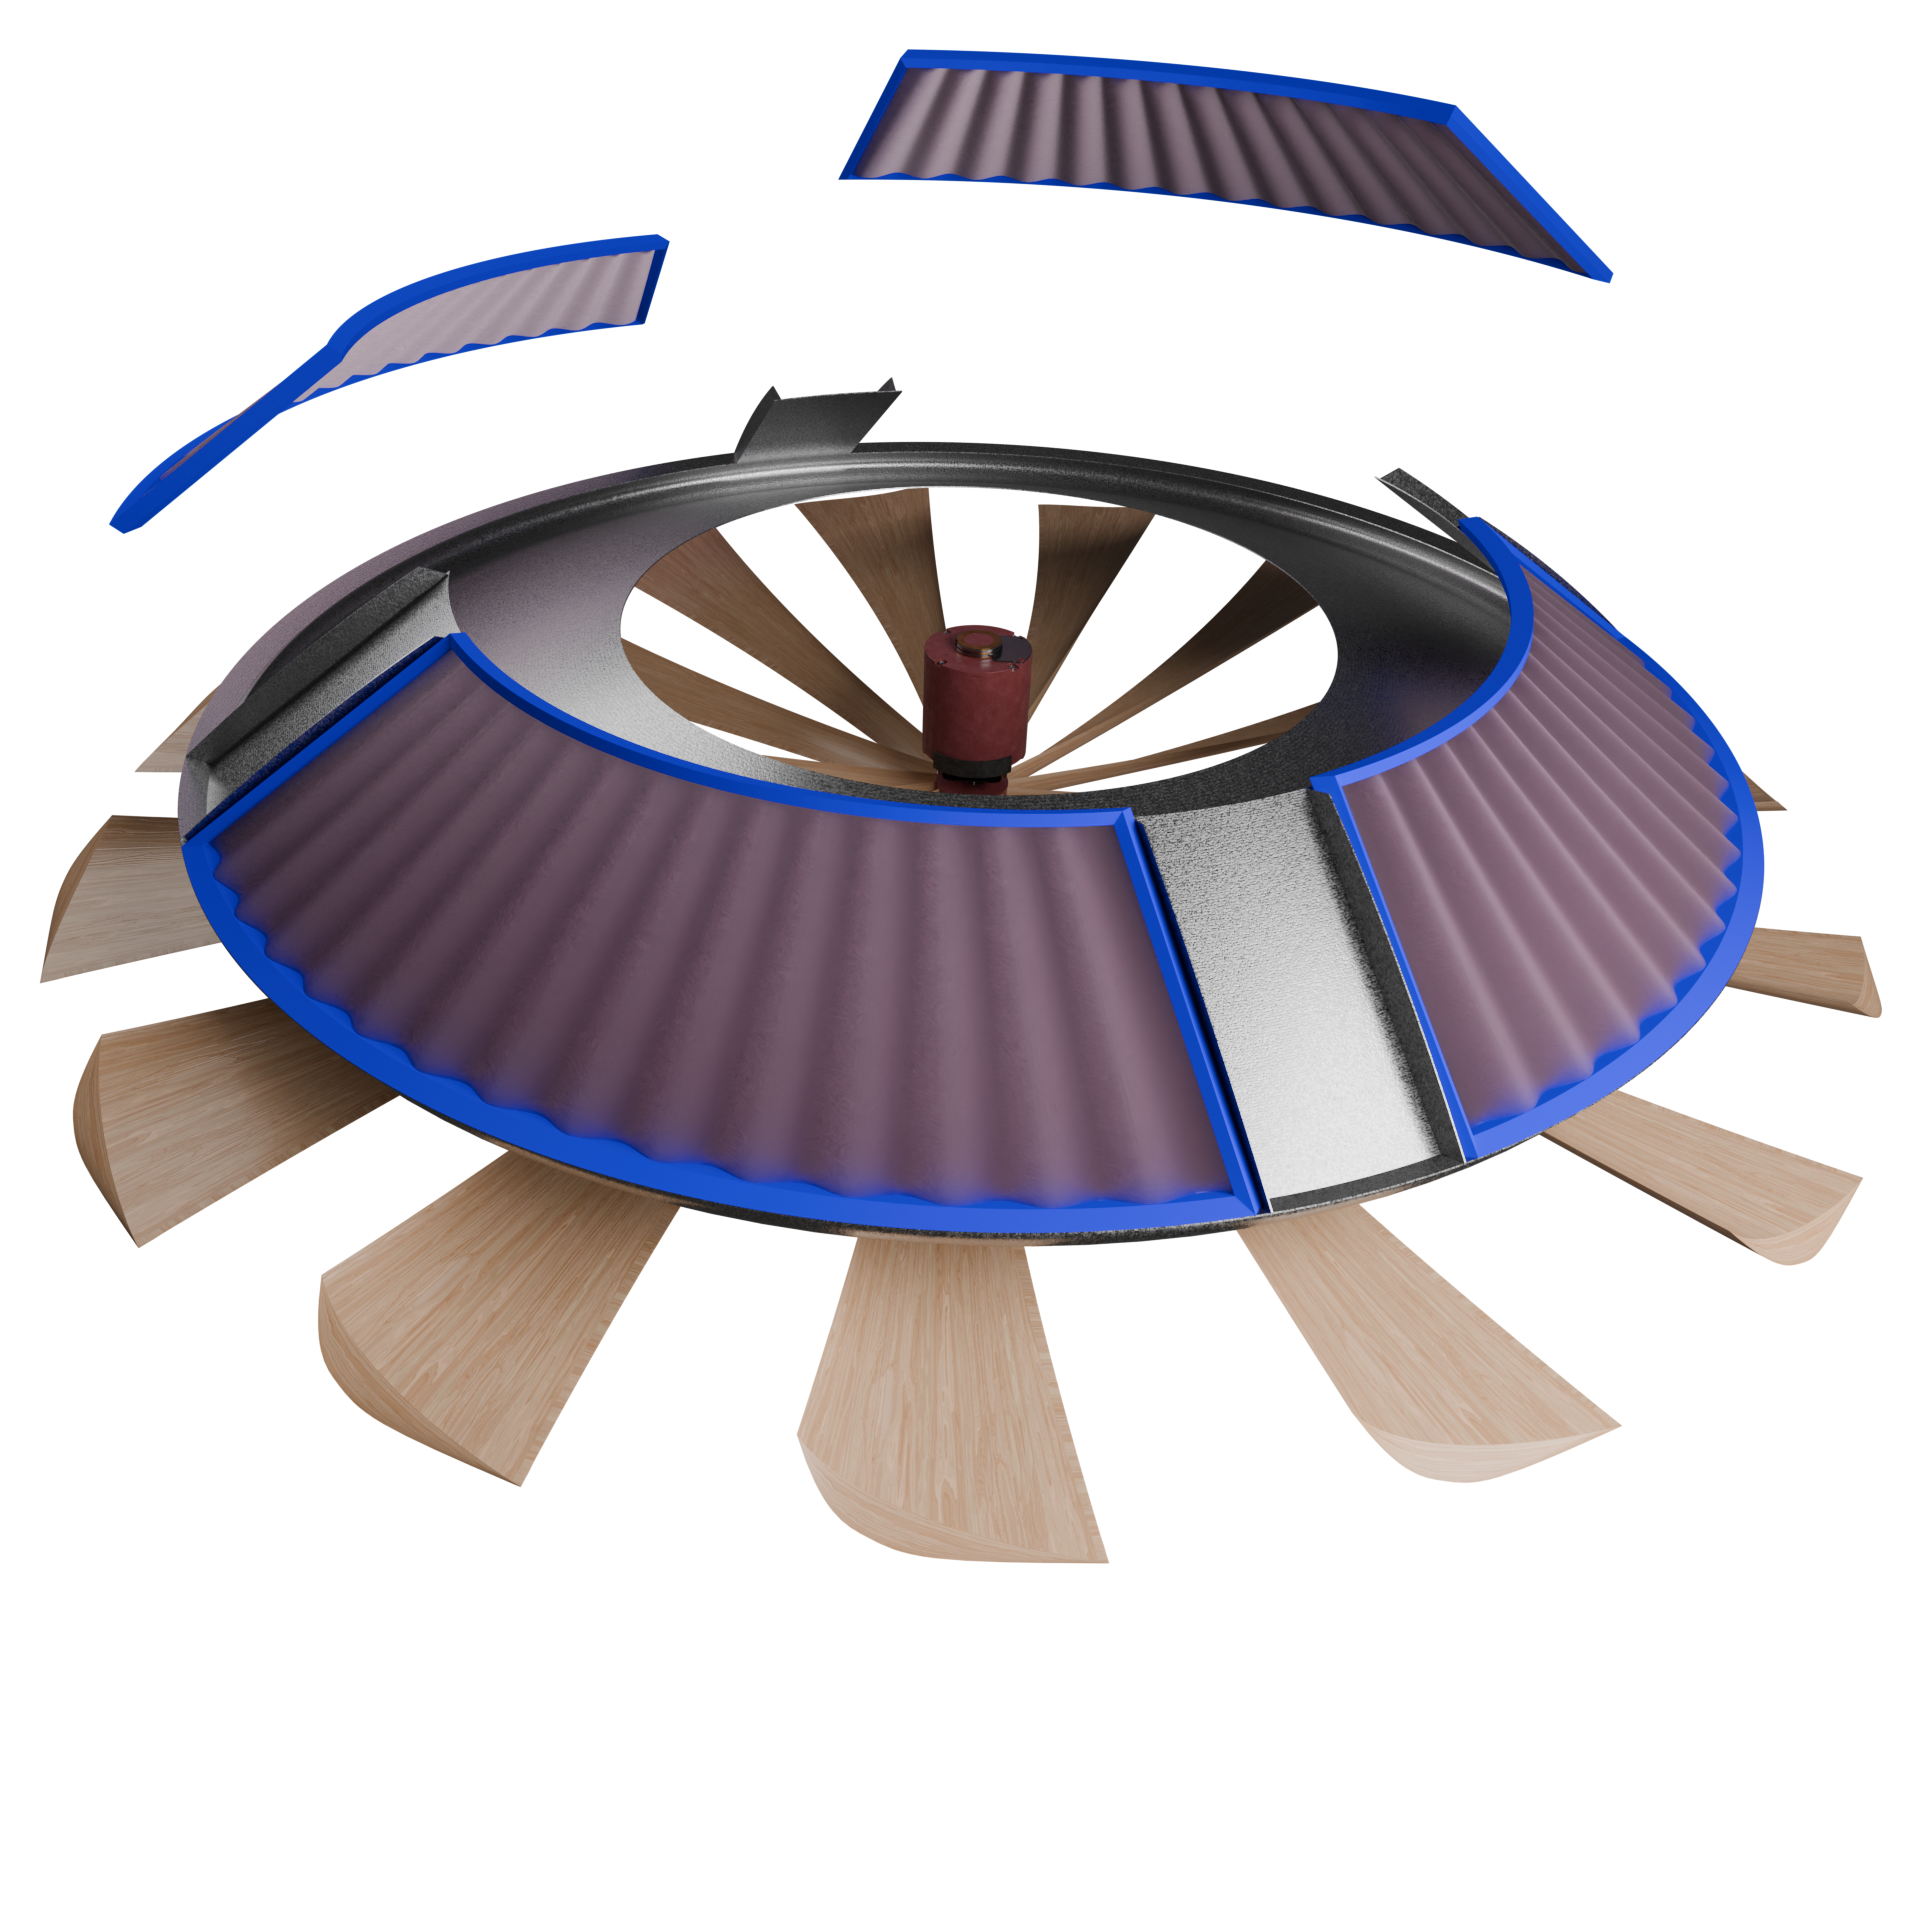
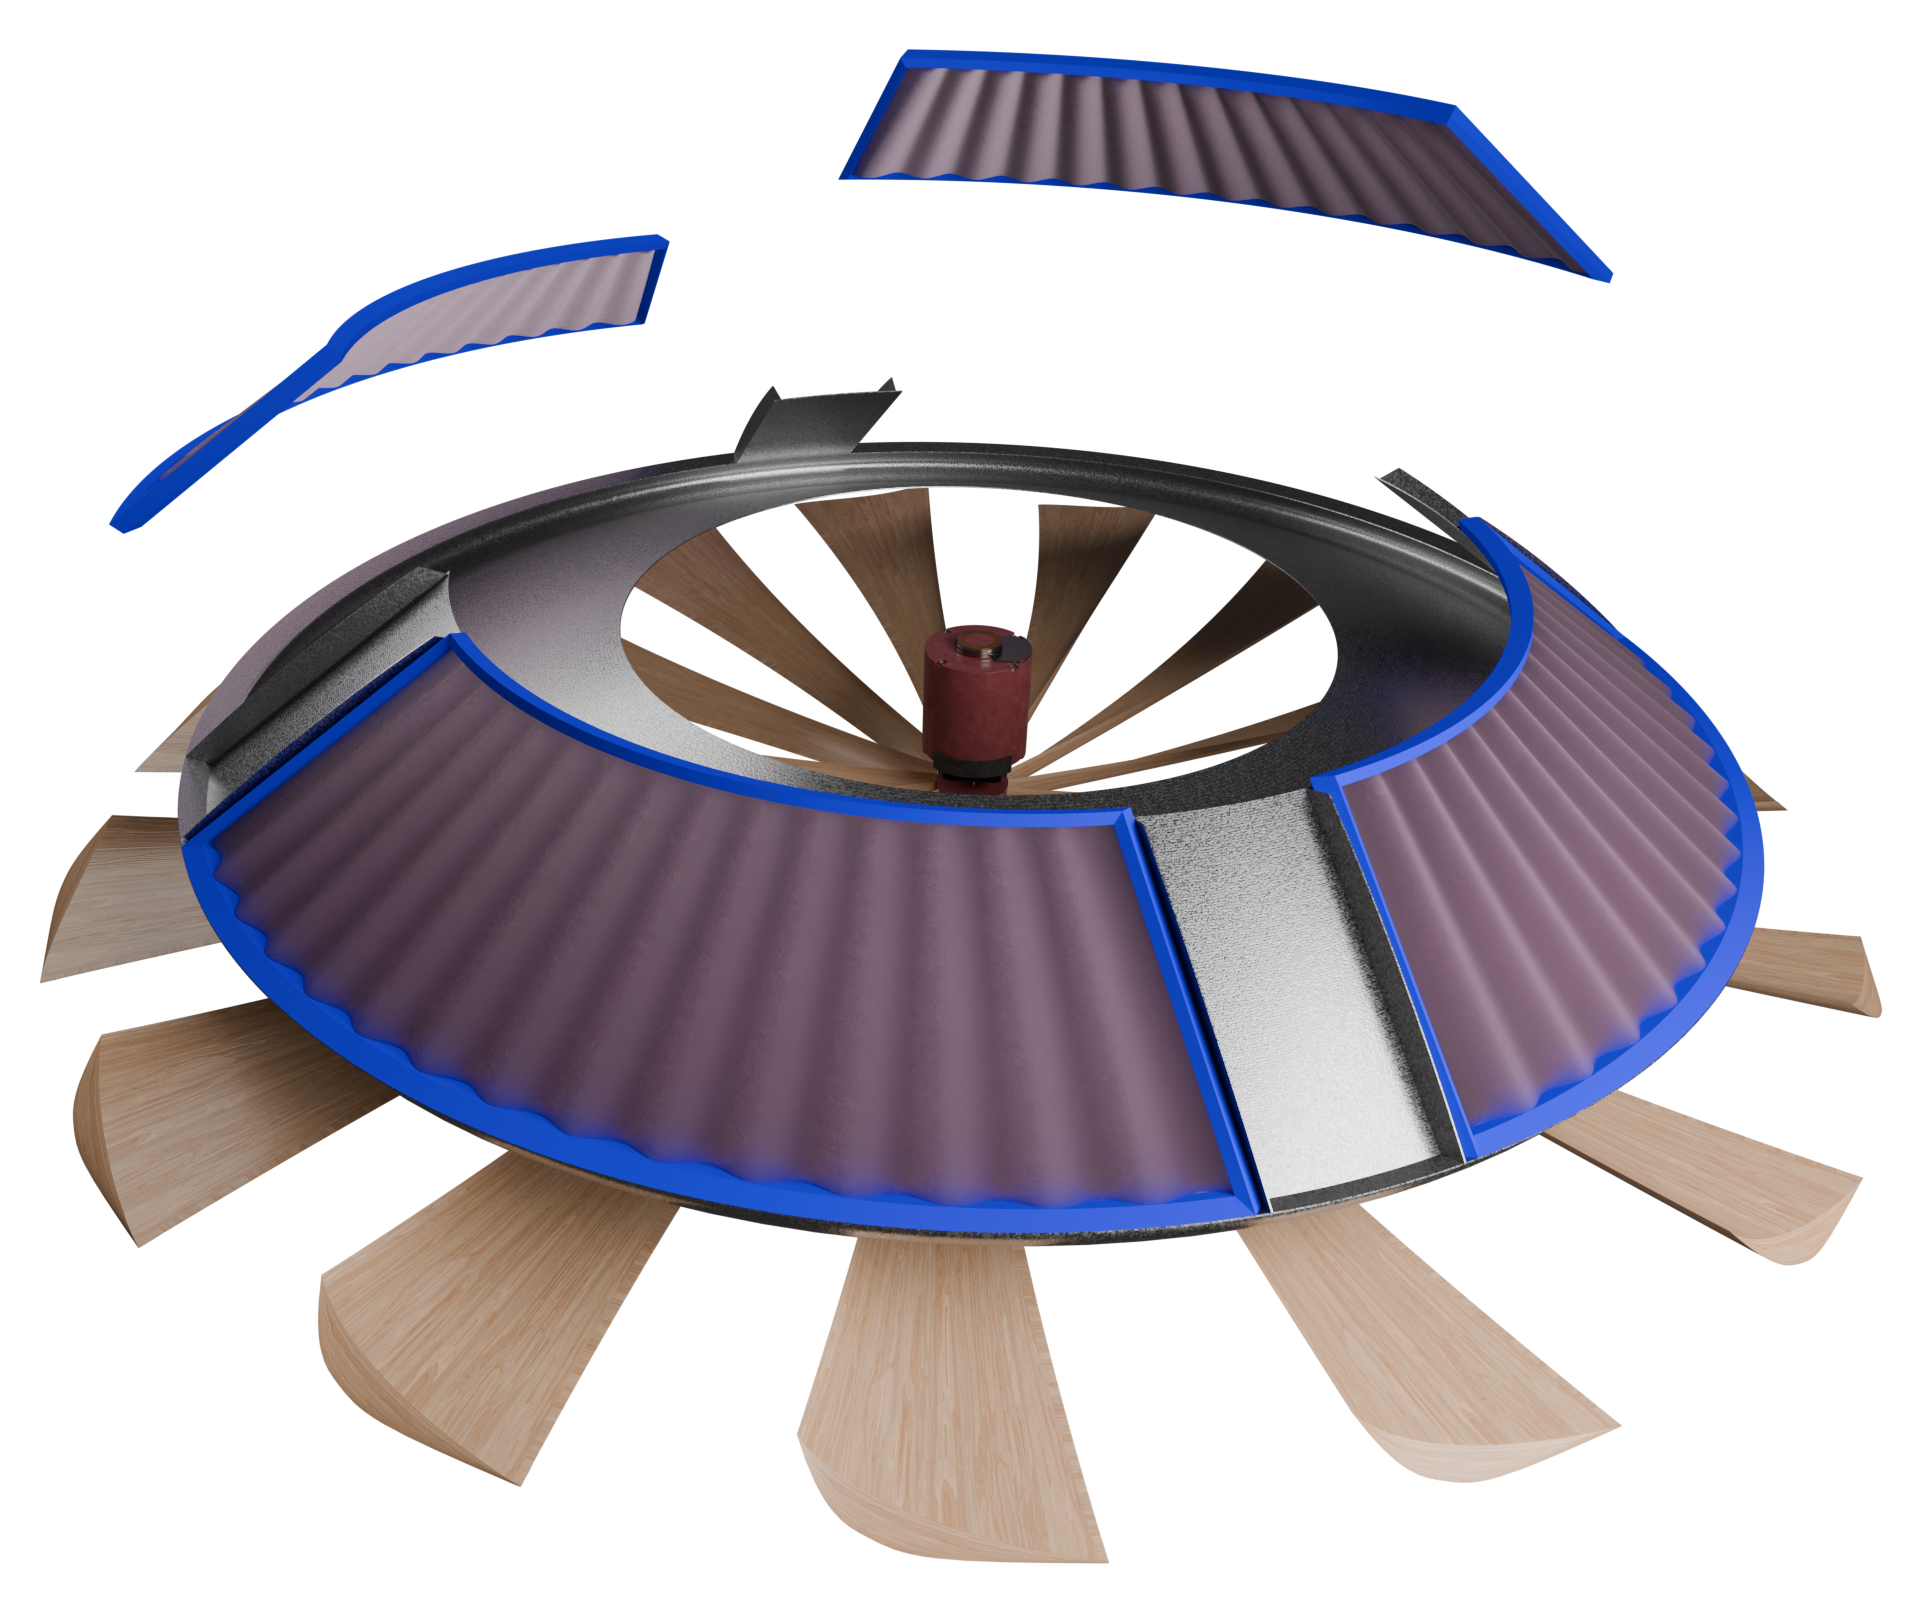
image tweaks
im BUGGGINNNN

diff --git a/main.css b/main.css
@@ -191,21 +191,21 @@ p{
     .titleContainer h1{
         margin: var(--radius) 0 var(--radius) 0;
         text-align: right;
-        font-size: clamp(20px, 5.5vw, 100px);
+        font-size: clamp(20px, 4vw, 80px);
         color: var(--primaryOrange);
         padding-bottom: var(--defaultVariablePadding);
     }
     .titleContainer h2{
         color: var(--primaryPink);
         margin: 0;
-        font-size: clamp(10px, 2.5vw, 100px);
+        font-size: clamp(10px, 2vw, 80px);
         padding-bottom: var(--defaultVariablePadding);
     }
 
     .titleContainer h3{
         color: var(--primaryGreen);
         margin: 0;
-        font-size: clamp(10px, 2vw, 100px);
+        font-size: clamp(10px, 1.5vw, 80px);
         font-family: FreeMono;
         font-weight: normal;
         padding-bottom: var(--defaultVariablePadding);

diff --git a/ProductLineExtention/ProductLineExtention.html b/ProductLineExtention/ProductLineExtention.html
@@ -34,7 +34,7 @@
             </p>
         </div>
         <div class="listImg">
-            <img src="assets/ChiselOne.jpg" alt="">
+            <img src="assets/UprigntFrontOrange.png" alt="">
         </div>
     </div>  
     <div class="twoStack reverse">
